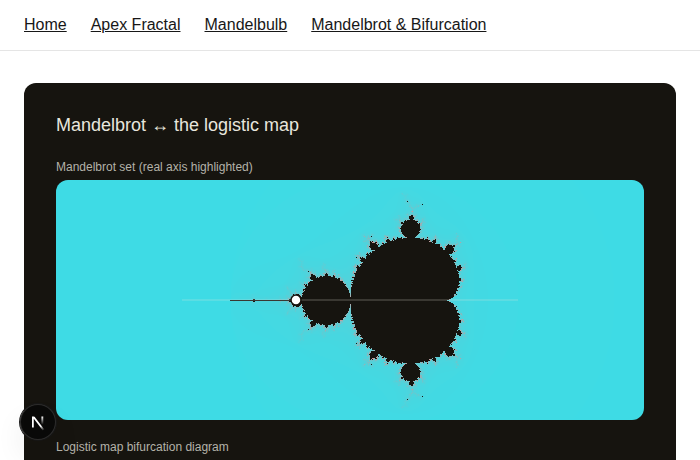
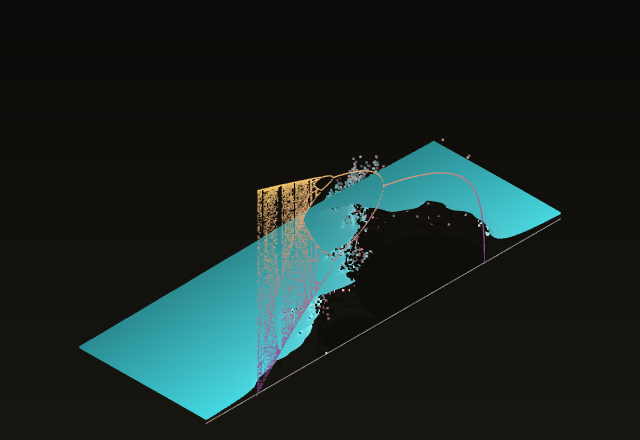
Add thumbs remove om

diff --git a/src/app/page.tsx b/src/app/page.tsx
@@ -48,6 +48,38 @@ export default function Home() {
             </div>
           </div>
         </Link>
+        <Link href="/mandelbrot-bifurcation" className={styles.card}>
+          <Image
+            src="/mandelbrot-bifurcation-thumb.png"
+            alt="Mandelbrot & Bifurcation thumbnail"
+            width={320}
+            height={220}
+            className={styles.thumb}
+          />
+          <div className={styles.cardBody}>
+            <div className={styles.cardTitle}>Mandelbrot & Bifurcation</div>
+            <div className={styles.cardDescription}>
+              The Mandelbrot set and the logistic map&apos;s bifurcation diagram, side by side —
+              two views of the same underlying dynamics.
+            </div>
+          </div>
+        </Link>
+        <Link href="/pythagoras-tree" className={styles.card}>
+          <Image
+            src="/pythagoras-tree-thumb.svg"
+            alt="Pythagoras Tree thumbnail"
+            width={320}
+            height={220}
+            className={styles.thumb}
+          />
+          <div className={styles.cardBody}>
+            <div className={styles.cardTitle}>Pythagoras Tree</div>
+            <div className={styles.cardDescription}>
+              A branching Iterated Function System — a square sprouts two smaller squares from a
+              right triangle, recursively, in 2D and 3D.
+            </div>
+          </div>
+        </Link>
       </div>
 
       <section className={styles.categories}>

diff --git a/src/app/components/nav.tsx b/src/app/components/nav.tsx
@@ -9,7 +9,6 @@ const links = [
   { href: "/apex-fractal", label: "Apex Fractal" },
   { href: "/mandelbulb", label: "Mandelbulb" },
   { href: "/mandelbrot-bifurcation", label: "Mandelbrot & Bifurcation" },
-  { href: "/om-fractal", label: "Om Fractal" },
   { href: "/pythagoras-tree", label: "Pythagoras Tree" },
 ];
 
